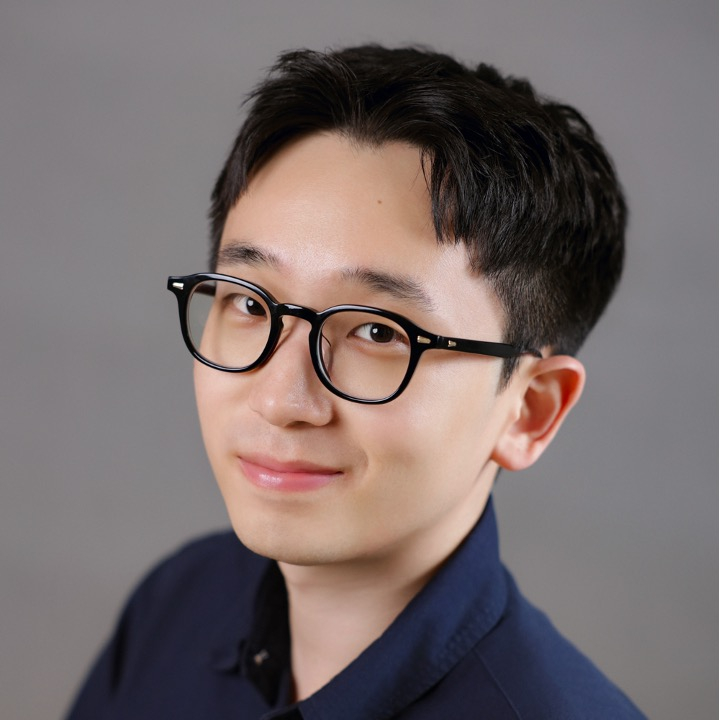
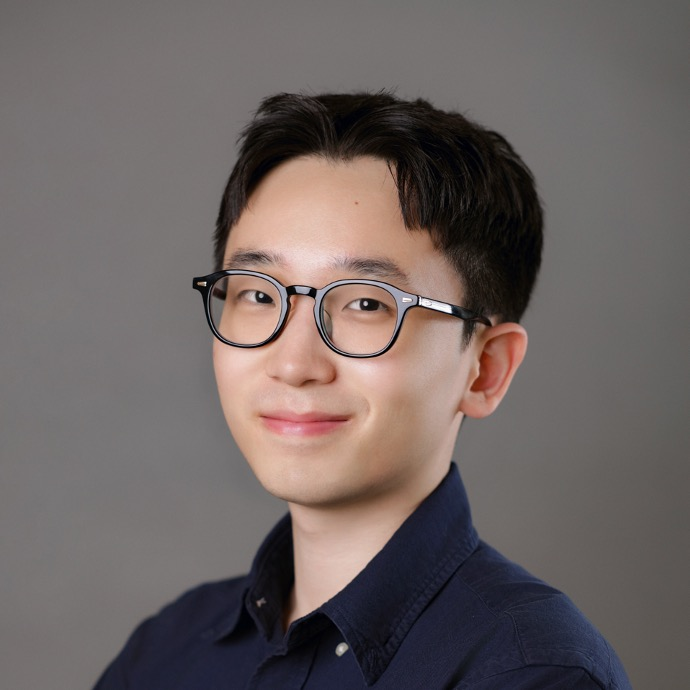
updated consensus acl

diff --git a/content/home/publications.md b/content/home/publications.md
@@ -46,19 +46,28 @@ a.title {
 <h2 class="publications">Preprints</h2>
 
 <div class="pub">
-<a class="title" href="https://arxiv.org/abs/2601.06453">"ConSensus: Multi-Agent Collaboration for Multimodal Sensing"</a> </br>
-<b><strong style="text-decoration:underline">Hyungjun Yoon*</strong>, Mohammad Malekzadeh, Sung-Ju Lee, Fahim Kawsar, and Lorena Qendro</b></br>
+<a class="title" href="https://arxiv.org/abs/2601.06453">"Wearable Foundation Models Should Go Beyond Static Encoders"</a> </br>
+<b>Yu Yvonne Wu*, Yuwei Zhang*, <strong style="text-decoration:underline">Hyungjun Yoon*</strong>, Ting Dang, Dimitris Spathis, Tong Xia, Qiang Yang, Jing Han, Dong Ma, Sung-Ju Lee, and Cecilia Mascolo</b></br>
 <i>arXiv preprint</i></br>
-<a class="badge badge-info" href="papers/ConSensus.pdf">{{< icon name="book" pack="fas" >}} pdf</a>
-<a class="badge badge-info" href="https://arxiv.org/abs/2601.06453">{{< icon name="link" pack="fas" >}} arXiv</a>
+<a class="badge badge-info" href="papers/WFMPosition.pdf">{{< icon name="book" pack="fas" >}} pdf</a>
+<a class="badge badge-info" href="https://arxiv.org/abs/2603.19564">{{< icon name="link" pack="fas" >}} arXiv</a>
 </div>
 
 <h2 class="publications">Conferences and Journals</h2>
 
 <div class="pub">
+<a class="title" href="https://arxiv.org/abs/2601.06453">"ConSensus: Multi-Agent Collaboration for Multimodal Sensing"</a> </br>
+<b><strong style="text-decoration:underline">Hyungjun Yoon*</strong>, Mohammad Malekzadeh, Sung-Ju Lee, Fahim Kawsar, and Lorena Qendro</b></br>
+<i><b>ACL 2026 (findings, long paper)</i></br>
+<a class="badge badge-info" href="papers/ConSensus.pdf">{{< icon name="book" pack="fas" >}} pdf</a>
+<a class="badge badge-info" href="https://arxiv.org/abs/2601.06453">{{< icon name="link" pack="fas" >}} arXiv</a>
+</div>
+
+<div class="pub">
 <a class="title" href=".">"Evaluating Visual Prompts with Eye-Tracking Data for MLLM–Based Human Activity Recognition"</a> </br>
 <b>Jae Young Choi, Seon Gyeom Kim, <strong style="text-decoration:underline">Hyungjun Yoon*</strong>, Taeckyung Lee, Donggun Lee, Jaeryung Chung, Jihyung Kil, Ryan Rossi, Sung-Ju Lee, and Tak Yeon Lee</b></br>
 <i>IEEE PacificVis 2026</i></br>
+<a class="badge badge-info" href="papers/EvalEyeVis.pdf">{{< icon name="book" pack="fas" >}} pdf</a>
 </div>
 
 <div class="pub">
@@ -97,7 +106,7 @@ a.title {
 <div class="pub">
 <a class="title" href="https://aclanthology.org/2024.emnlp-main.133/">"By My Eyes: Grounding Multimodal Large Language Models with Sensor Data via Visual Prompting"</a> </br>
 <b><strong style="text-decoration:underline">Hyungjun Yoon</strong>, Biniyam Aschalew Tolera, Taesik Gong, Kimin Lee, Sung-Ju Lee</b></br>
-<i><b>EMNLP 2024 (main track, long paper)</b></i></br>
+<i><b>EMNLP 2024 (main, long paper)</b></i></br>
 <a class="badge badge-info" href="papers/ByMyEyes.pdf">{{< icon name="book" pack="fas" >}} pdf</a>
 <a class="badge badge-info" href="https://nmsl.kaist.ac.kr/projects/bymyeyes/">{{< icon name="link" pack="fas" >}} website</a>
 <a class="badge badge-info">{{< icon name="award" pack="fas" >}} Qualcomm Innovation Fellowship Winner</a>
@@ -106,7 +115,7 @@ a.title {
 <div class="pub">
 <a class="title" href="https://dl.acm.org/doi/abs/10.1145/3491102.3502041">"FedTherapist: Mental Health Monitoring with User-Generated Linguistic Expressions on Smartphones via Federated Learning"</a> </br>
 <b>Jaemin Shin, <strong style="text-decoration:underline">Hyungjun Yoon</strong>, Seungjoo Lee, Sungjoon Park, Yunxin Liu, Jinho D. Choi, and Sung-Ju Lee</b></br>
-<i><b>EMNLP 2023 (main track, short paper)</b></i></br>
+<i><b>EMNLP 2023 (main, short paper)</b></i></br>
 <a class="badge badge-info" href="papers/Fedtherapist.pdf">{{< icon name="book" pack="fas" >}} pdf</a>
 <a class="badge badge-info" href="https://nmsl.kaist.ac.kr/projects/fedtherapist/">{{< icon name="link" pack="fas" >}} website</a>
 </div>

diff --git a/content/authors/admin/_index.md b/content/authors/admin/_index.md
@@ -10,12 +10,12 @@ last_name: Yoon
 superuser: true
 
 # Role/position/tagline
-role: Ph.D. Student @ KAIST
+role: Ph.D. Candidate @ KAIST
 
 # Organizations/Affiliations to show in About widget
 organizations:
-  - name: KAIST NMSL
-    url: https://nmsl.kaist.ac.kr/
+  - name: KAIST
+    url: https://miil.kaist.ac.kr/
 
 # Short bio (displayed in user profile at end of posts)
 bio: .

diff --git a/content/home/news.md b/content/home/news.md
@@ -39,6 +39,7 @@ subtitle = ""
 </style>
 
 <ul class="news">
+<li><span class="tabdate">Apr. 2026<span class="tab">&#9;</span>| </span>&nbsp; Paper accepted at ACL ‘26 (findings)</li>
 <li><span class="tabdate">Jan. 2026<span class="tab">&#9;</span>| </span>&nbsp; Paper accepted at IEEE PacificVis ‘26</li>
 <li><span class="tabdate">Jan. 2026<span class="tab">&#9;</span>| </span>&nbsp; Paper accepted at ICLR ‘26</li>
 <li><span class="tabdate">Nov. 2025<span class="tab">&#9;</span>| </span>&nbsp; Selected as Winner of the <a href="https://www.qualcomm.com/research/university-relations/innovation-fellowship/winners">Qualcomm Innovation Fellowship</a></li>
@@ -53,9 +54,9 @@ subtitle = ""
 <li><span class="tabdate">Feb. 2025<span class="tab">&#9;</span>| </span>&nbsp; Paper accepted at ACM CHI ‘25 EA</li>
 <li><span class="tabdate">Nov. 2024<span class="tab">&#9;</span>| </span>&nbsp; Invited talk at MSRA</li>
 <li><span class="tabdate">Sep. 2024<span class="tab">&#9;</span>| </span>&nbsp; Paper accepted at UbiComp ‘25</li>
-<li><span class="tabdate">Sep. 2024<span class="tab">&#9;</span>| </span>&nbsp; Paper accepted at EMNLP ‘24</li>
+<li><span class="tabdate">Sep. 2024<span class="tab">&#9;</span>| </span>&nbsp; Paper accepted at EMNLP ‘24 (main)</li>
 <li><span class="tabdate">Sep. 2024<span class="tab">&#9;</span>| </span>&nbsp; Started my research internship at <a class="text" href="https://www.microsoft.com/en-us/research/lab/microsoft-research-asia/">Microsoft Research</a> (Mentor Prof. <a class="text" href="https://www.microsoft.com/en-us/research/people/liliqiu/">Lili Qiu</a>)</li>
-<li><span class="tabdate">Oct. 2023<span class="tab">&#9;</span>| </span>&nbsp; Paper accepted at EMNLP ‘23</li>
+<li><span class="tabdate">Oct. 2023<span class="tab">&#9;</span>| </span>&nbsp; Paper accepted at EMNLP ‘23 (main)</li>
 <li><span class="tabdate">Sep. 2022<span class="tab">&#9;</span>| </span>&nbsp; Started my visiting research at <a class="text" href="https://www.ntu.edu.sg/">NTU</a>, Singapore (Advisor Prof. <a class="text" href="https://personal.ntu.edu.sg/limo/">Mo Li</a>) (by Dec. 2022)</li>
 <li><span class="tabdate">Mar. 2022<span class="tab">&#9;</span>| </span>&nbsp; Honorable Mention at ACM CHI ‘22</li>
 <li><span class="tabdate">Nov. 2021<span class="tab">&#9;</span>| </span>&nbsp; Paper accepted at ACM CHI ‘22</li>

diff --git a/content/home/about.md b/content/home/about.md
@@ -122,7 +122,7 @@ subtitle = ""
 
 <div class="bio">
 <div class="bio_contents">
-I am a Ph.D. student in <a class="text" href="https://nmsl.kaist.ac.kr/">Networking & Mobile Systems Lab</a> at <a class="text" href="https://www.kaist.ac.kr/en/">KAIST</a>, advised by Professor <a class="text" href="https://sites.google.com/site/wewantsj/">Sung-Ju Lee</a>. I was a research intern at <a class="text" href="https://www.nokia.com/bell-labs/research/">Nokia Bell Labs</a> (Mentor <a class="text" href="https://lorenaqendro.github.io/">Lorena Qendro</a>, hosted by <a class="text" href="https://www.fahim-kawsar.net/">Fahim Kawsar</a>), Microsoft Research (mentored and hosted by Professor <a class="text" href="https://www.cs.utexas.edu/~lili/">Lili Qiu</a>), and a visiting researcher at <a href="https://www.ntu.edu.sg/">NTU</a> (advised by Professor <a class="text" href="https://home.cse.ust.hk/~lim/">Mo Li</a>). I do research on <b>Foundation models</b> and <b>LLMs</b> for <b>Mobile sensing</b> and <b>Healthcare</b> applications. I enjoy exploring how the techniques can be used for real-world problems.
+I am a Ph.D. candidate in <a class="text" href="https://miil.kaist.ac.kr/">Mobile Intelligence & Interaction Lab</a> at <a class="text" href="https://www.kaist.ac.kr/en/">KAIST</a>, advised by Professor <a class="text" href="https://sites.google.com/site/wewantsj/">Sung-Ju Lee</a>. I was a research intern at <a class="text" href="https://www.nokia.com/bell-labs/research/">Nokia Bell Labs</a> (Mentor <a class="text" href="https://lorenaqendro.github.io/">Lorena Qendro</a>, hosted by <a class="text" href="https://www.fahim-kawsar.net/">Fahim Kawsar</a>), Microsoft Research (mentored and hosted by Professor <a class="text" href="https://www.cs.utexas.edu/~lili/">Lili Qiu</a>), and a visiting researcher at <a href="https://www.ntu.edu.sg/">NTU</a> (advised by Professor <a class="text" href="https://home.cse.ust.hk/~lim/">Mo Li</a>). I do research on <b>Foundation models</b> and <b>LLMs</b> for <b>Mobile Sensing</b> and <b>Healthcare</b> applications. I enjoy exploring how the techniques can be used for real-world problems.
 
 <hr />
 <a href="https://drive.google.com/file/d/1uFNU_t1R9M4W56_NnuM137mmNZT0q2fg/view?usp=sharing">{{< icon name="file" pack="fas" >}} CV  &nbsp;</a><span class="tab">&#9;</span>